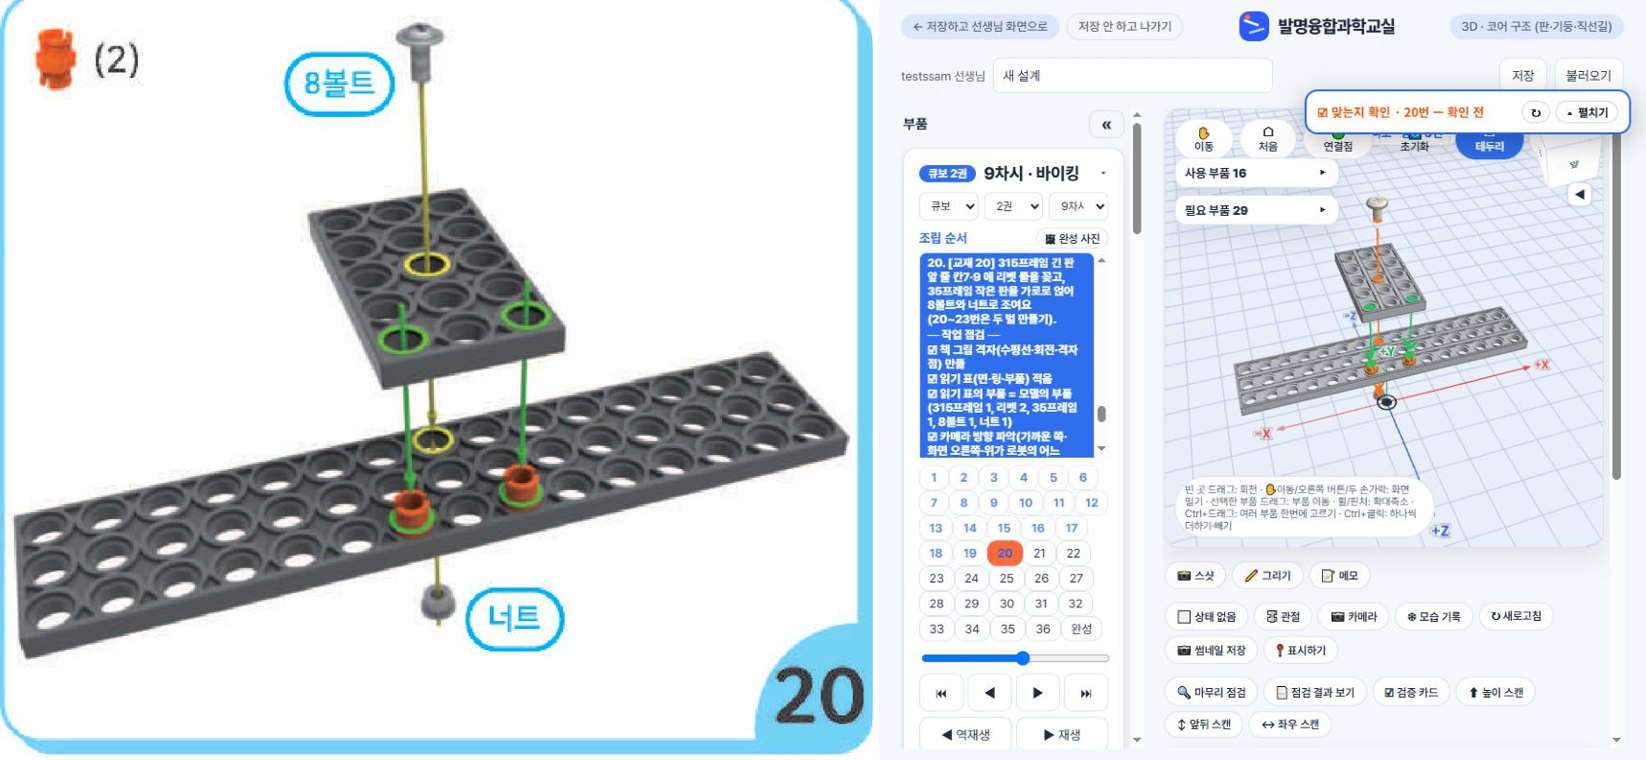
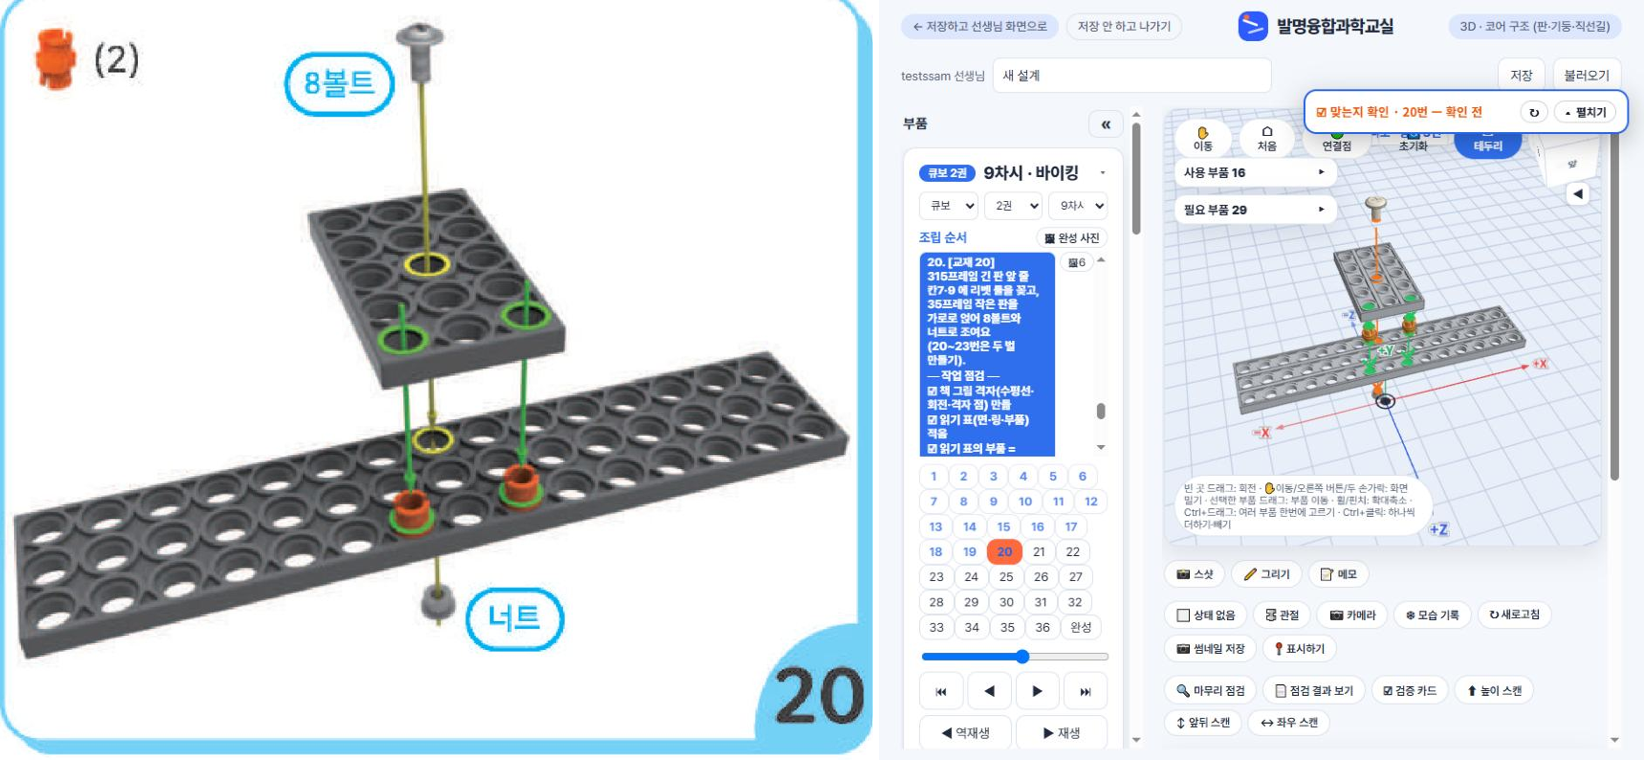
바이킹 20번 리벳 2개 분리(결합 전 띄움), 증거 갱신

diff --git a/public/design-assemblies.js b/public/design-assemblies.js
@@ -3735,8 +3735,8 @@ window.IVS_ASSEMBLIES = [
         ] },
         { note: "[교재 20] 315프레임 긴 판 앞 줄 칸7·9 에 리벳 둘을 꽂고, 35프레임 작은 판을 가로로 얹어 8볼트와 너트로 조여요(20~23번은 두 벌 만들기).\n━ 작업 점검 ━\n☑ 책 그림 격자(수평선·회전·격자 점) 만듦\n☑ 읽기 표(면·링·부품) 적음\n☑ 읽기 표의 부품 = 모델의 부품 (315프레임 1, 리벳 2, 35프레임 1, 8볼트 1, 너트 1)\n☑ 카메라 방향 파악(가까운 쪽·화면 오른쪽·위가 로봇의 어느 쪽인지 읽기 표 '방향') (눈으로)\n☑ 쓴 부품 합계 ≤ 교재 LIST\n☑ 부품 방향·제자리 판정(읽기 표 '부품방향')\n☑ 앞·뒤 번호 그림·완성 사진(00)과 같이 읽음(읽기 표 '대조')\n☑ 화면 확대 확인 (비교 증거 있음) (눈으로)\n☑ 책 그림과 나란히 비교(칸 수 대조) (비교 증거 있음) (눈으로)\n☑ 카메라 책과 대조 (비교 증거 있음) (눈으로)\n☑ 카메라가 짐작(guess)이 아님 — 책 그림에서 가까운 쪽·오른쪽·위를 읽고 정한 값(camSrc eye) (비교 증거 있음) (눈으로)\n▣ 사용 부품: 315프레임 1, 35프레임 1, 리벳 2, 8볼트 1, 너트 1 (20~23번 2개 만들기)", cam: {"theta": -0.31, "phi": 0.84}, camSrc: "eye", slot: 3, history: "📦 바닥판 몸(12~19번)을 창고 2에 두고, 창고 3에서 옆판(20~23번)을 새로 시작(20~23번은 2개 만들기)", hideMade: {"1": "1~19번(창고 1·2)", "2": "1~19번(창고 1·2)", "3": "1~19번(창고 1·2)", "4": "1~19번(창고 1·2)", "5": "1~19번(창고 1·2)", "6": "1~19번(창고 1·2)", "7": "1~19번(창고 1·2)", "8": "1~19번(창고 1·2)", "9": "1~19번(창고 1·2)", "10": "1~19번(창고 1·2)", "11": "1~19번(창고 1·2)", "12": "1~19번(창고 1·2)", "13": "1~19번(창고 1·2)", "14": "1~19번(창고 1·2)", "15": "1~19번(창고 1·2)", "16": "1~19번(창고 1·2)", "17": "1~19번(창고 1·2)", "18": "1~19번(창고 1·2)", "19": "1~19번(창고 1·2)"}, parts: [
           { n: "315프레임", p: [-3.0, 2.5, 4.5], r: [0.0, 0.0, 0.0] },
-          { n: "리벳", p: [-13.0, 5.0, 14.5], r: [0.0, 0.0, 0.0], dir: [0.0, 1.0, 0.0], marks: [[-13.0, 5.0, 14.5]], seated: true, noGuide: true, moveGuide: true },
-          { n: "리벳", p: [7.0, 5.0, 14.5], r: [0.0, 0.0, 0.0], dir: [0.0, 1.0, 0.0], marks: [[7.0, 5.0, 14.5]], seated: true, noGuide: true, moveGuide: true },
+          { n: "리벳", p: [-13.0, 5.0, 14.5], r: [0.0, 0.0, 0.0], dir: [0.0, 1.0, 0.0], marks: [[-13.0, 5.0, 14.5]], hover: 24 },
+          { n: "리벳", p: [7.0, 5.0, 14.5], r: [0.0, 0.0, 0.0], dir: [0.0, 1.0, 0.0], marks: [[7.0, 5.0, 14.5]], hover: 24 },
           { n: "35프레임", p: [-3.0, 7.5, -5.5], r: [0.0, 90.0, 0.0], recv: true, dir: [0.0, 1.0, 0.0], marks: [[-13.0, 9.5, 14.5], [7.0, 9.5, 14.5]], hover: 37 },
           { n: "8볼트", p: [-3.0, 6.9, -5.5], r: [0.0, 0.0, 0.0], dir: [0.0, 1.0, 0.0], marks: [[-3.0, 10.0, -5.5]], hover: 75 },
           { n: "너트", p: [-3.0, 1.0, -5.5], r: [0.0, 0.0, 0.0], dir: [0.0, -1.0, 0.0], marks: [[-3.0, 0.0, -5.5]], hover: 39 },

diff --git a/scripts/assembly-tools/viking_entry.js b/scripts/assembly-tools/viking_entry.js
@@ -154,8 +154,8 @@
         ] },
         { note: "[교재 20] 315프레임 긴 판 앞 줄 칸7·9 에 리벳 둘을 꽂고, 35프레임 작은 판을 가로로 얹어 8볼트와 너트로 조여요(20~23번은 두 벌 만들기).\n━ 작업 점검 ━\n☑ 책 그림 격자(수평선·회전·격자 점) 만듦\n☑ 읽기 표(면·링·부품) 적음\n☑ 읽기 표의 부품 = 모델의 부품 (315프레임 1, 리벳 2, 35프레임 1, 8볼트 1, 너트 1)\n☑ 카메라 방향 파악(가까운 쪽·화면 오른쪽·위가 로봇의 어느 쪽인지 읽기 표 '방향') (눈으로)\n☑ 쓴 부품 합계 ≤ 교재 LIST\n☑ 부품 방향·제자리 판정(읽기 표 '부품방향')\n☑ 앞·뒤 번호 그림·완성 사진(00)과 같이 읽음(읽기 표 '대조')\n☑ 화면 확대 확인 (비교 증거 있음) (눈으로)\n☑ 책 그림과 나란히 비교(칸 수 대조) (비교 증거 있음) (눈으로)\n☑ 카메라 책과 대조 (비교 증거 있음) (눈으로)\n☑ 카메라가 짐작(guess)이 아님 — 책 그림에서 가까운 쪽·오른쪽·위를 읽고 정한 값(camSrc eye) (비교 증거 있음) (눈으로)\n▣ 사용 부품: 315프레임 1, 35프레임 1, 리벳 2, 8볼트 1, 너트 1 (20~23번 2개 만들기)", cam: {"theta": -0.31, "phi": 0.84}, camSrc: "eye", slot: 3, history: "📦 바닥판 몸(12~19번)을 창고 2에 두고, 창고 3에서 옆판(20~23번)을 새로 시작(20~23번은 2개 만들기)", hideMade: {"1": "1~19번(창고 1·2)", "2": "1~19번(창고 1·2)", "3": "1~19번(창고 1·2)", "4": "1~19번(창고 1·2)", "5": "1~19번(창고 1·2)", "6": "1~19번(창고 1·2)", "7": "1~19번(창고 1·2)", "8": "1~19번(창고 1·2)", "9": "1~19번(창고 1·2)", "10": "1~19번(창고 1·2)", "11": "1~19번(창고 1·2)", "12": "1~19번(창고 1·2)", "13": "1~19번(창고 1·2)", "14": "1~19번(창고 1·2)", "15": "1~19번(창고 1·2)", "16": "1~19번(창고 1·2)", "17": "1~19번(창고 1·2)", "18": "1~19번(창고 1·2)", "19": "1~19번(창고 1·2)"}, parts: [
           { n: "315프레임", p: [-3.0, 2.5, 4.5], r: [0.0, 0.0, 0.0] },
-          { n: "리벳", p: [-13.0, 5.0, 14.5], r: [0.0, 0.0, 0.0], dir: [0.0, 1.0, 0.0], marks: [[-13.0, 5.0, 14.5]], seated: true, noGuide: true, moveGuide: true },
-          { n: "리벳", p: [7.0, 5.0, 14.5], r: [0.0, 0.0, 0.0], dir: [0.0, 1.0, 0.0], marks: [[7.0, 5.0, 14.5]], seated: true, noGuide: true, moveGuide: true },
+          { n: "리벳", p: [-13.0, 5.0, 14.5], r: [0.0, 0.0, 0.0], dir: [0.0, 1.0, 0.0], marks: [[-13.0, 5.0, 14.5]], hover: 24 },
+          { n: "리벳", p: [7.0, 5.0, 14.5], r: [0.0, 0.0, 0.0], dir: [0.0, 1.0, 0.0], marks: [[7.0, 5.0, 14.5]], hover: 24 },
           { n: "35프레임", p: [-3.0, 7.5, -5.5], r: [0.0, 90.0, 0.0], recv: true, dir: [0.0, 1.0, 0.0], marks: [[-13.0, 9.5, 14.5], [7.0, 9.5, 14.5]], hover: 37 },
           { n: "8볼트", p: [-3.0, 6.9, -5.5], r: [0.0, 0.0, 0.0], dir: [0.0, 1.0, 0.0], marks: [[-3.0, 10.0, -5.5]], hover: 75 },
           { n: "너트", p: [-3.0, 1.0, -5.5], r: [0.0, 0.0, 0.0], dir: [0.0, -1.0, 0.0], marks: [[-3.0, 0.0, -5.5]], hover: 39 },

diff --git a/scripts/assembly-tools/viking.py b/scripts/assembly-tools/viking.py
@@ -415,8 +415,7 @@ s20 = SKEL[19]; s20.kw.pop("noPart", None)
 s20.note = "[교재 20] 315프레임 긴 판 앞 줄 칸7·9 에 리벳 둘을 꽂고, 35프레임 작은 판을 가로로 얹어 8볼트와 너트로 조여요(20~23번은 두 벌 만들기)."
 s20.kw["hideMade"] = {str(_i): "1~19번(창고 1·2)" for _i in range(1, 20)}
 P20 = s20.place("315프레임", np.eye(3), (-3.0, 2.5, 4.5))   # 창고 3 새 조립: 원점 근처 — x −3.0·z +4.5 로 비켜 숨은 12~19번 부품 돌기·구멍과 5mm 넘게 떨어짐(2 mm 안이면 잠금 기록이 그 부품에 붙어 빌드마다 자리가 바뀐다)
-RV20 = [s20.attach("리벳", np.eye(3), {"p1": (P20, _hh)}, rivet=True) for _hh in ("h7_3", "h9_3")]
-for _r in RV20: _r.extra["seated"] = True; _r.extra["noGuide"] = True; _r.extra["moveGuide"] = True   # 책이 이미 꽂아 둔 리벳(밑 링)
+RV20 = [s20.attach("리벳", np.eye(3), {"p1": (P20, _hh)}, rivet=True, hover=24) for _hh in ("h7_3", "h9_3")]   # 사용자 지시 2026-10-22: 20번 리벳 둘은 결합 전(분리)으로 띄워 화살표 — 책은 꽂힌 모양이지만 지시를 따른다(7·15번과 같다, 읽기 표에 적음)
 R_SP20 = np.array([[0.0, 0.0, 1.0], [0.0, 1.0, 0.0], [-1.0, 0.0, 0.0]])   # 35프레임: 국소 x → −Z(뒤로 뻗음), z → +X
 SP20 = s20.recv("35프레임", R_SP20, {"h1_1": (RV20[0], "p2"), "h1_3": (RV20[1], "p2")}, p=(-3.0, 7.5, -5.5), dir=[0, 1, 0], hover=37)   # 아래 판 위에 바로 얹힘(중심 y 7.5, 6번 215프레임과 같다)
 BOLT20 = s20.attach("8볼트", np.eye(3), {"p1": (SP20, "h3_2")}, hover=75)
